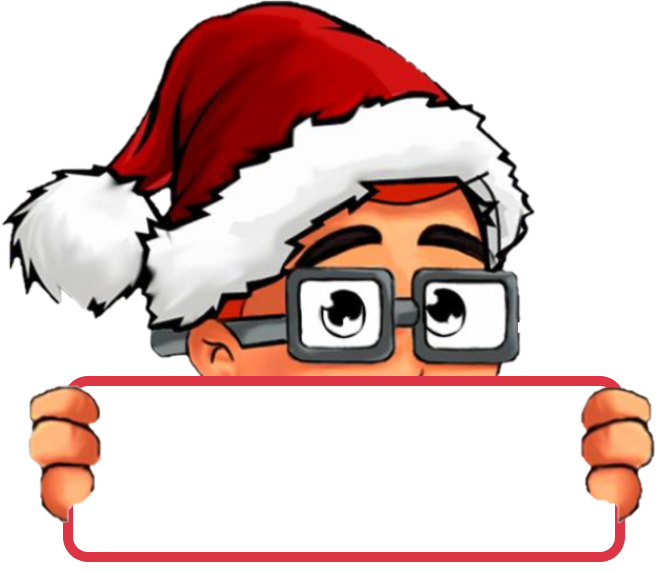
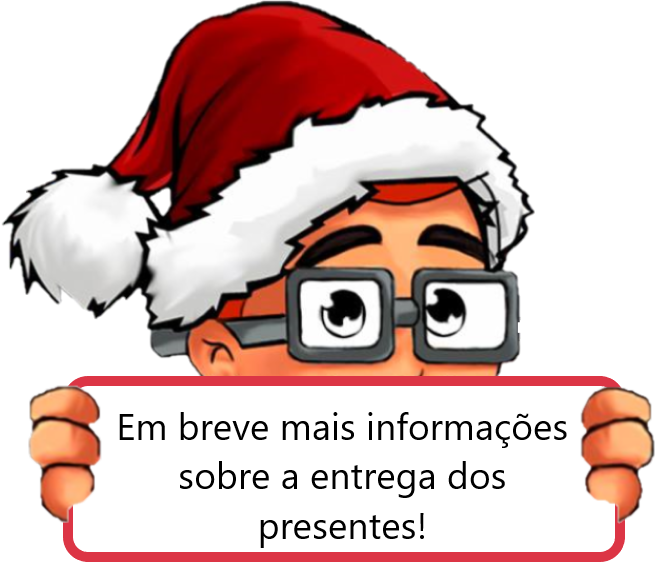
atualizando eventos e entrega dos presentes

Changed region(s): [[0.2727, 0.801, 0.7879, 0.9494], [0.1818, 0.712, 0.8788, 0.7714]]

diff --git a/index.html b/index.html
@@ -211,6 +211,16 @@
 						</tr>
 						<tr>
 							<td>
+								<a class="lead text-dark" href="https://www.meetup.com/pt-BR/Nerdzao/events/256703442/" target="_blank">
+									#NATALNERD - Nerdzão #80 - Better test than break [BDD and QA]
+								</a>
+							</td>
+							<td>NerdZão</td>
+							<td>São Paulo/SP</td>
+							<td>06/12/2018</td>
+						</tr>
+						<tr>
+							<td>
 								<a class="lead text-dark" href="https://www.meetup.com/pt-BR/capivara-coders/events/256594906/" target="_blank">
 									Natal Nerd 2018
 								</a>
@@ -290,18 +300,19 @@
 				<div class="card bg-light border-danger shadow">
 					<div class="card-body lead">
 						<h4 class="text-center mt-5">Veja as instituições que receberão as doações em São Paulo:</h4>
-						<ul class="ml-5 mt-3">
-							<li>CEI Jardim Guairaca</li>
-							<li>Associação Casa da Criança Nossa Senhora Aparecida</li>
-							<li>Cantinho Mei Mei</li>
-							<li>Clube da Comunidade Parque Fongaro</li>
+						<ul class="ml-5 mt-5">
+							<li class="mb-3">CEI Jardim Guairaca</li>
+							<li class="mb-3">Associação Casa da Criança Nossa Senhora Aparecida</li>
+							<li class="mb-3">Cantinho Mei Mei</li>
+							<li class="mb-3">Clube da Comunidade Parque Fongaro</li>
 						</ul>
 					</div>
 				</div>
 				<div class="card bg-light border-danger shadow">
 					<div class="card-body text-center lead">
-						<h4 class="text-center mt-5">Entrega dos presentes será uma grande festa, dia 17/12 as 14:00!</h4>
-						<a href="#" target="_blank" class="btn btn-danger mt-5" role="button">Mais informações aqui</a>
+						<img class="card-img" src="./images/cardsemtexto.png">
+						<!-- <h4 class="text-justify">Em breve mais informações sobre a entrega dos presentes!<h4> -->
+								<!-- <a href="#" target="_blank" class="btn btn-danger mt-5" role="button">Mais informações aqui</a> -->
 					</div>
 				</div>
 			</div>
